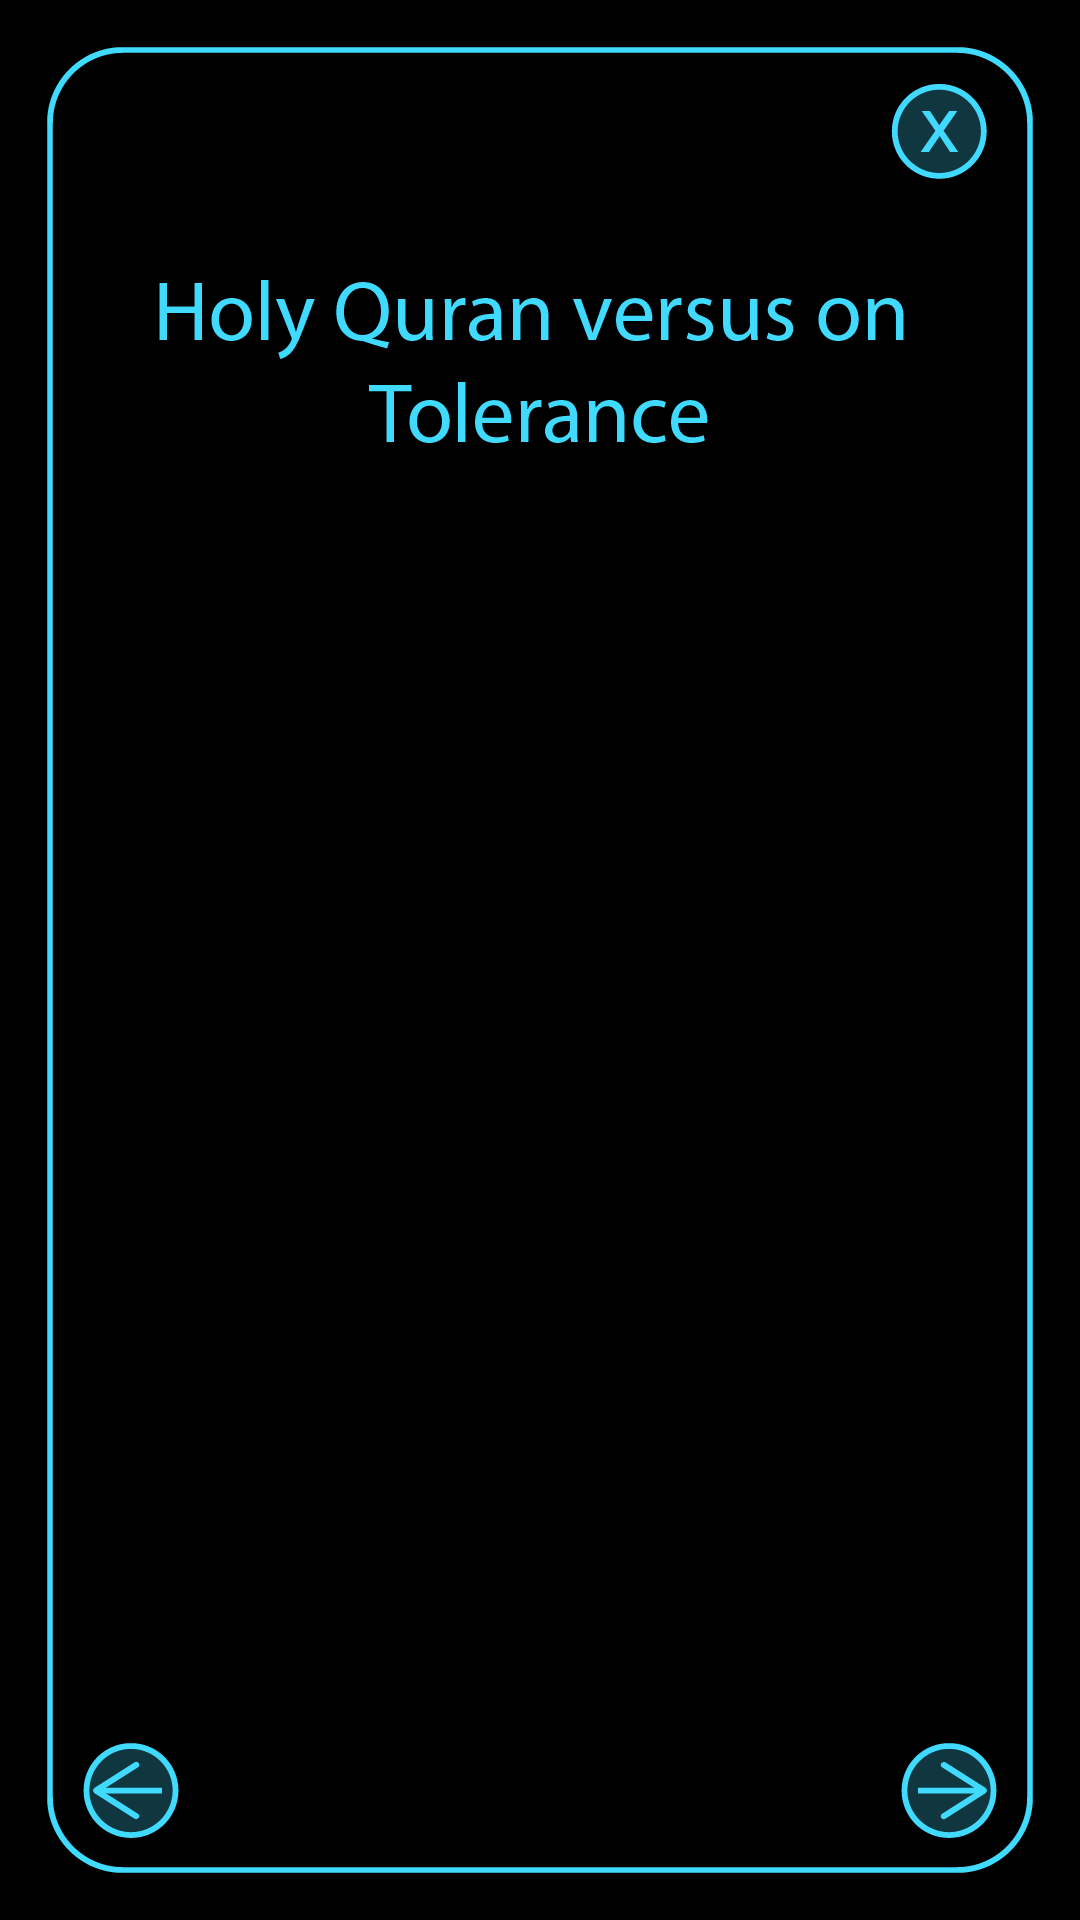
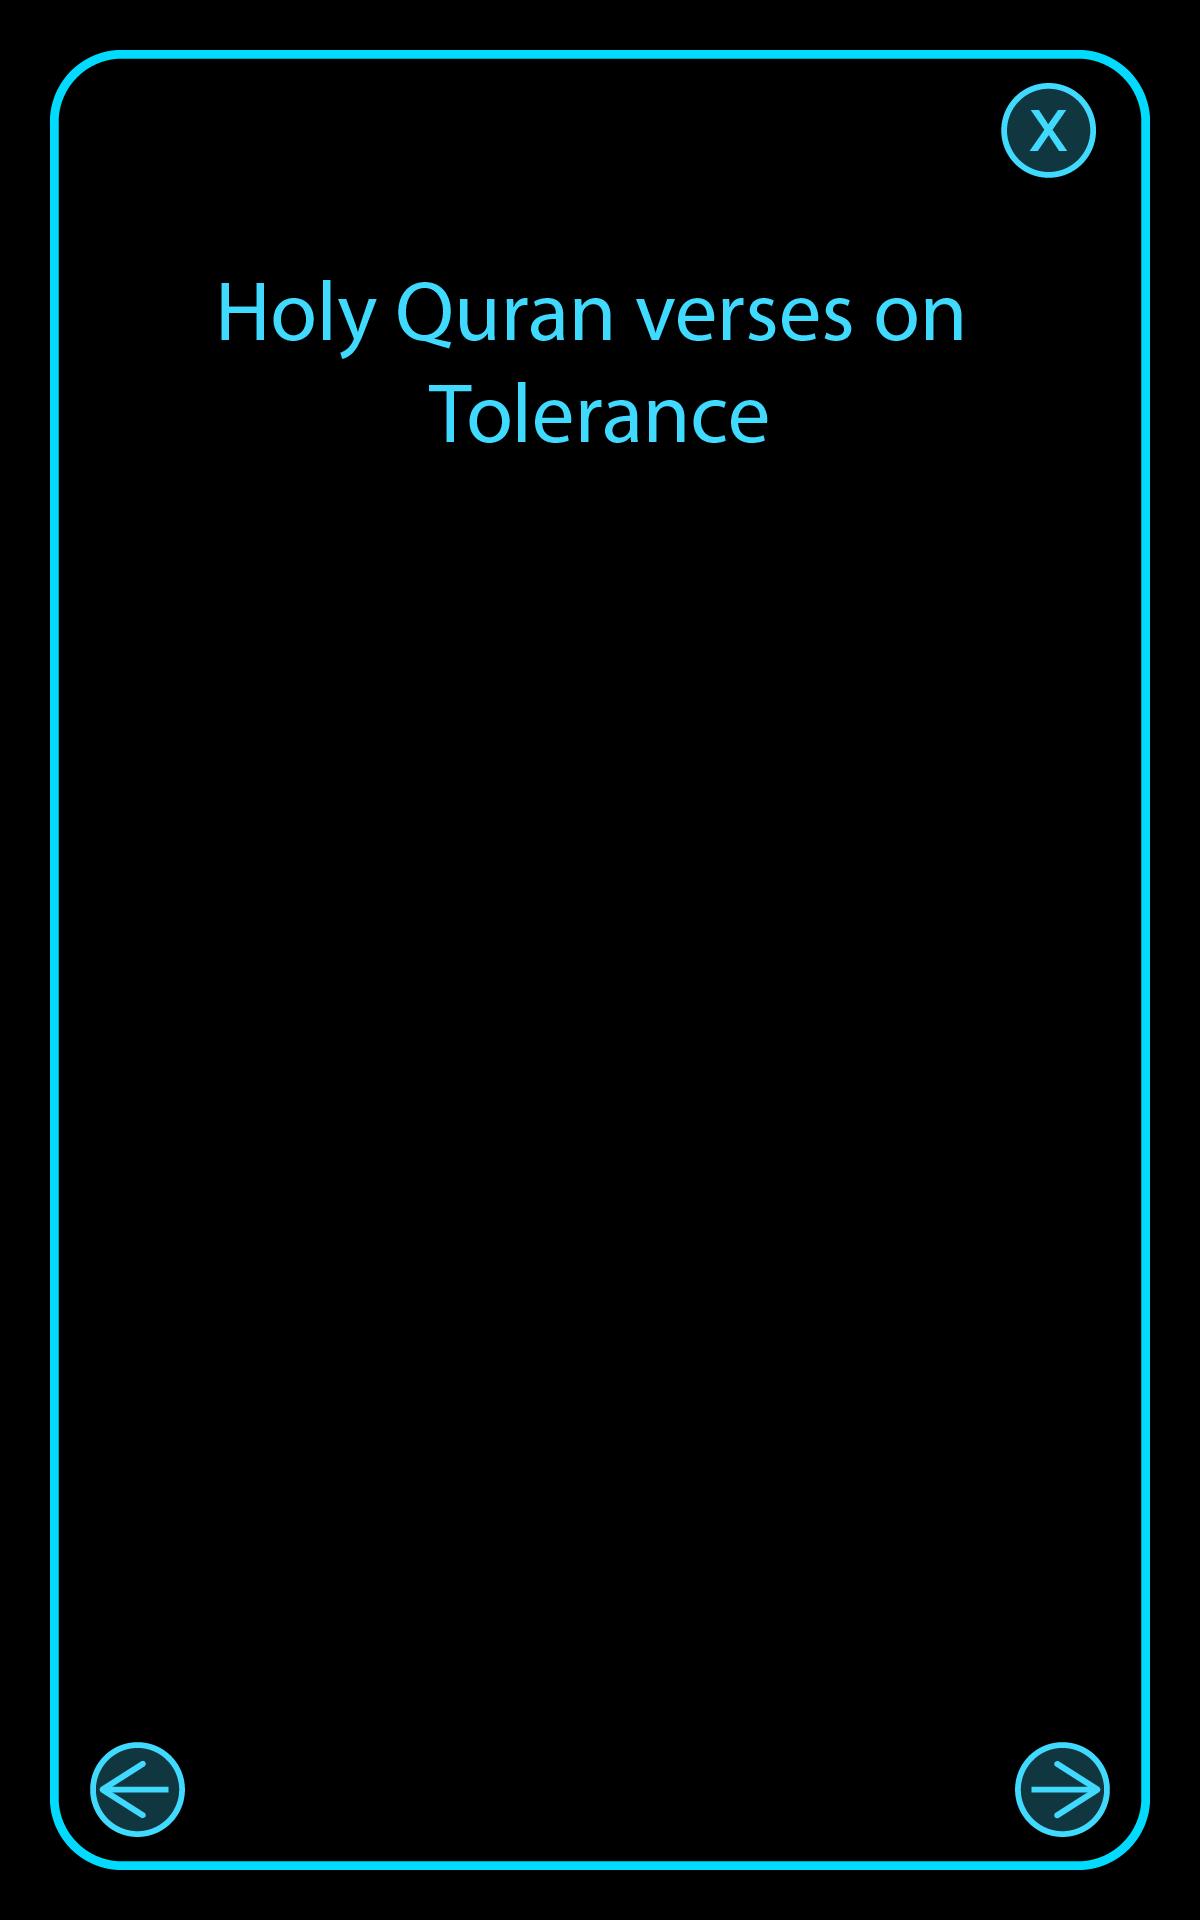
hopefully the final one

Changed region(s): [[0.0306, 0.0, 0.9778, 1.0], [0.1222, 0.125, 0.4889, 0.25], [0.5194, 0.1562, 0.8556, 0.25]]

diff --git a/display3/socket-io-client/src/App.css b/display3/socket-io-client/src/App.css
@@ -1,7 +1,6 @@
 body, html {
   height: 100%;
   margin: 0;
-  background-color: #000000;
 }
 
 #root {
@@ -89,17 +88,13 @@ body, html {
   list-style: none;
   text-align: center;
   background-color: #000000;
-  margin-right: 30px;  
-  margin-right: 10px;  
-  line-height: 25px;
-  font-weight: 500;
-  font-size: 120%;
-  padding-bottom: 20px;
-  font-size: 50px;
+  margin-right: 10px;      
   padding-bottom: 180px;
   color: #40DAFF;
   width: 100%;
-  line-height: 70px;
+  font-weight: 600;
+  font-size: 70px;
+  font-style: italic;
 }
 
 #original {
@@ -117,17 +112,20 @@ body, html {
   margin-left: auto;
   margin-right: auto;
   top: 28%;
-  left: 38.3%;
+  left: 12.3%;
   right: 0;
 }
 
 .font {
 object-fit: contain;
-width: 230px;
-height: 230px;
+width: 500px;
+height: 500px;
 }
 
+
+
 .gallery {
+
 display: flex;
 flex-wrap: wrap;
 padding-top: 5px;
@@ -139,19 +137,20 @@ overflow: hidden;
 }
 
 figcaption {
-margin-top: 170px;
-margin-bottom: 70px;
-color: #40DAFF;
-text-align: center;
-font-weight: 600;
+  margin-top: 170px;
+  margin-bottom: 70px;
+  color: #40DAFF;
+  text-align: center;
+  font-weight: 600;
+  font-size: 70px;
 }
 
 img {
-border: none;
-transition: transform .2s ease-in-out;
-object-fit: contain;
-width: 150px;
-height: 150px;
+  border: none;
+  transition: transform .2s ease-in-out;
+  object-fit: contain;
+  width: 150px;
+  height: 150px;
 }
 
 .onefont{
@@ -160,23 +159,13 @@ height: 150px;
   position: absolute;
   margin-left: auto;
   margin-right: auto;
-  top: 20%;
-  left: 35.5%;
+  top: 10%;
+  left: 6.5%;
   right: 0;
 }
 
-/* line-height: 10px;
-font-weight: 600;
-font-size: 30px;
-text-align: center;
-font-style: italic;
-font-size: smaller; */
-
-
-
-
 div.figure {
-  width: 60%;
+  width: 90%;
   text-align: center;
   font-style: italic;
   font-size: smaller;

diff --git a/display2/socket-io-client/src/App.css b/display2/socket-io-client/src/App.css
@@ -1,6 +1,11 @@
+html{
+  background-color: #000000;
+}
+
 body, html {
   height: 100%;
   margin: 0;
+
 }
 
 #root {
@@ -77,11 +82,10 @@ body, html {
     padding: 0px;
 }
 
-#buttons {
- 
-  width: 600px;
+#buttons { 
+  width: 650px;
   position: absolute;
-  left: 3.5%;
+  left: 6.5%;
   right: 0;
   margin-left: auto;
   margin-right: auto;
@@ -89,9 +93,9 @@ body, html {
   }
 
   #buttonss {
-    width: 600px;
+    width: 700px;
     position: absolute;
-    left: 3.5%;
+    left: 8.8%;
     right: 0;
     margin-left: auto;
     margin-right: auto;
@@ -109,14 +113,12 @@ body, html {
   font-size: 350%
 
 }
-
   #buttons li {
     float: left;
     list-style: none;
     text-align: center;
     background-color: #000000;
     margin-right: 30px;
-    /* width: 350px; */
     line-height: 60px;
     font-weight: 500;
     font-size: 350%
@@ -248,31 +250,12 @@ ul#review li p {
 
 .font {
   object-fit: contain;
-  width: 230px;
-  height: 230px;
-}
-
-.frames {
-  flex-wrap: wrap;
-  padding: 0 4px;
-  position: absolute;
-  margin-left: auto;
-  margin-right: auto;
-  top: 28%;
-  left: 0%;
-  right: 0;
-}
-
-.frame {
-  object-fit: contain;
-  width: 500px;
-  height: 500px;  
-}
+  width: 400px;
+  height: 300px;
+  }
 
 .gallery {
-
   display: flex;
-  /* flex-wrap: wrap; */
   padding-top: 5px;
 }
 

diff --git a/display2/socket-io-client/public/index.html b/display2/socket-io-client/public/index.html
@@ -1,5 +1,5 @@
 <!DOCTYPE html>
-<html lang="en">
+<html lang="en" style="background-color:black">
   <head>
     <meta charset="utf-8" />
     <link rel="shortcut icon" href="%PUBLIC_URL%/favicon.ico" />

diff --git a/display3/socket-io-client/public/index.html b/display3/socket-io-client/public/index.html
@@ -1,5 +1,5 @@
 <!DOCTYPE html>
-<html lang="en">
+<html lang="en" style="background-color:black">
   <head>
     <meta charset="utf-8" />
     <link rel="shortcut icon" href="%PUBLIC_URL%/favicon.ico" />
